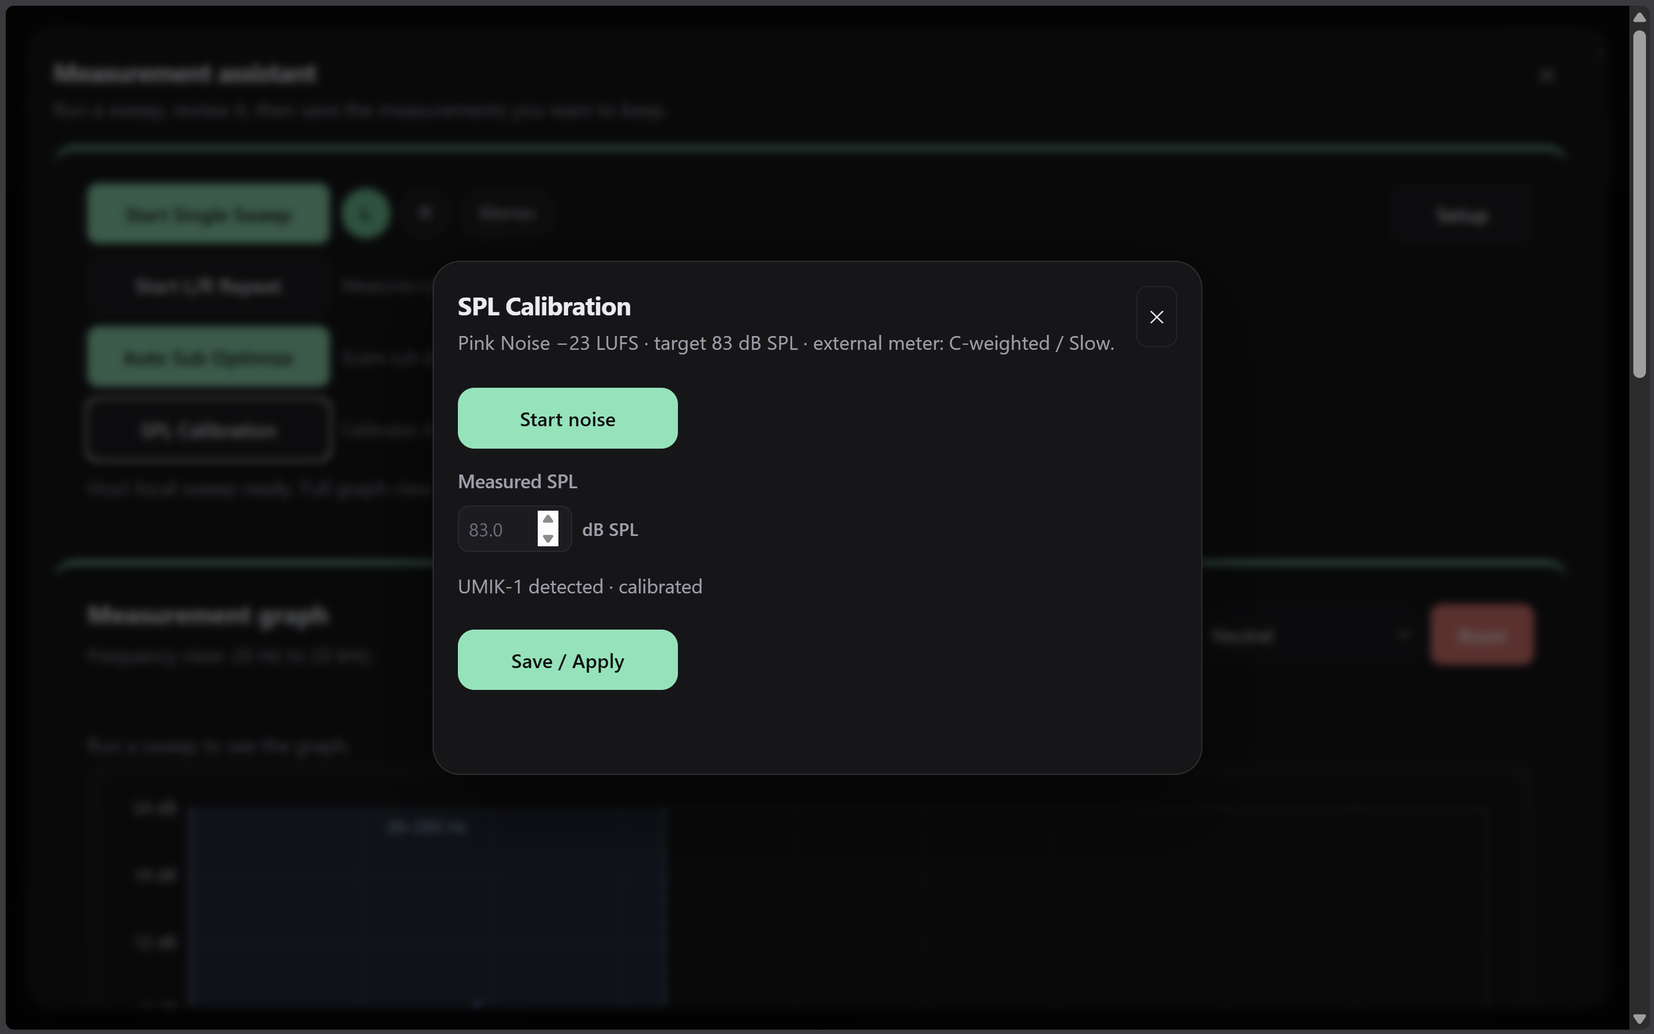
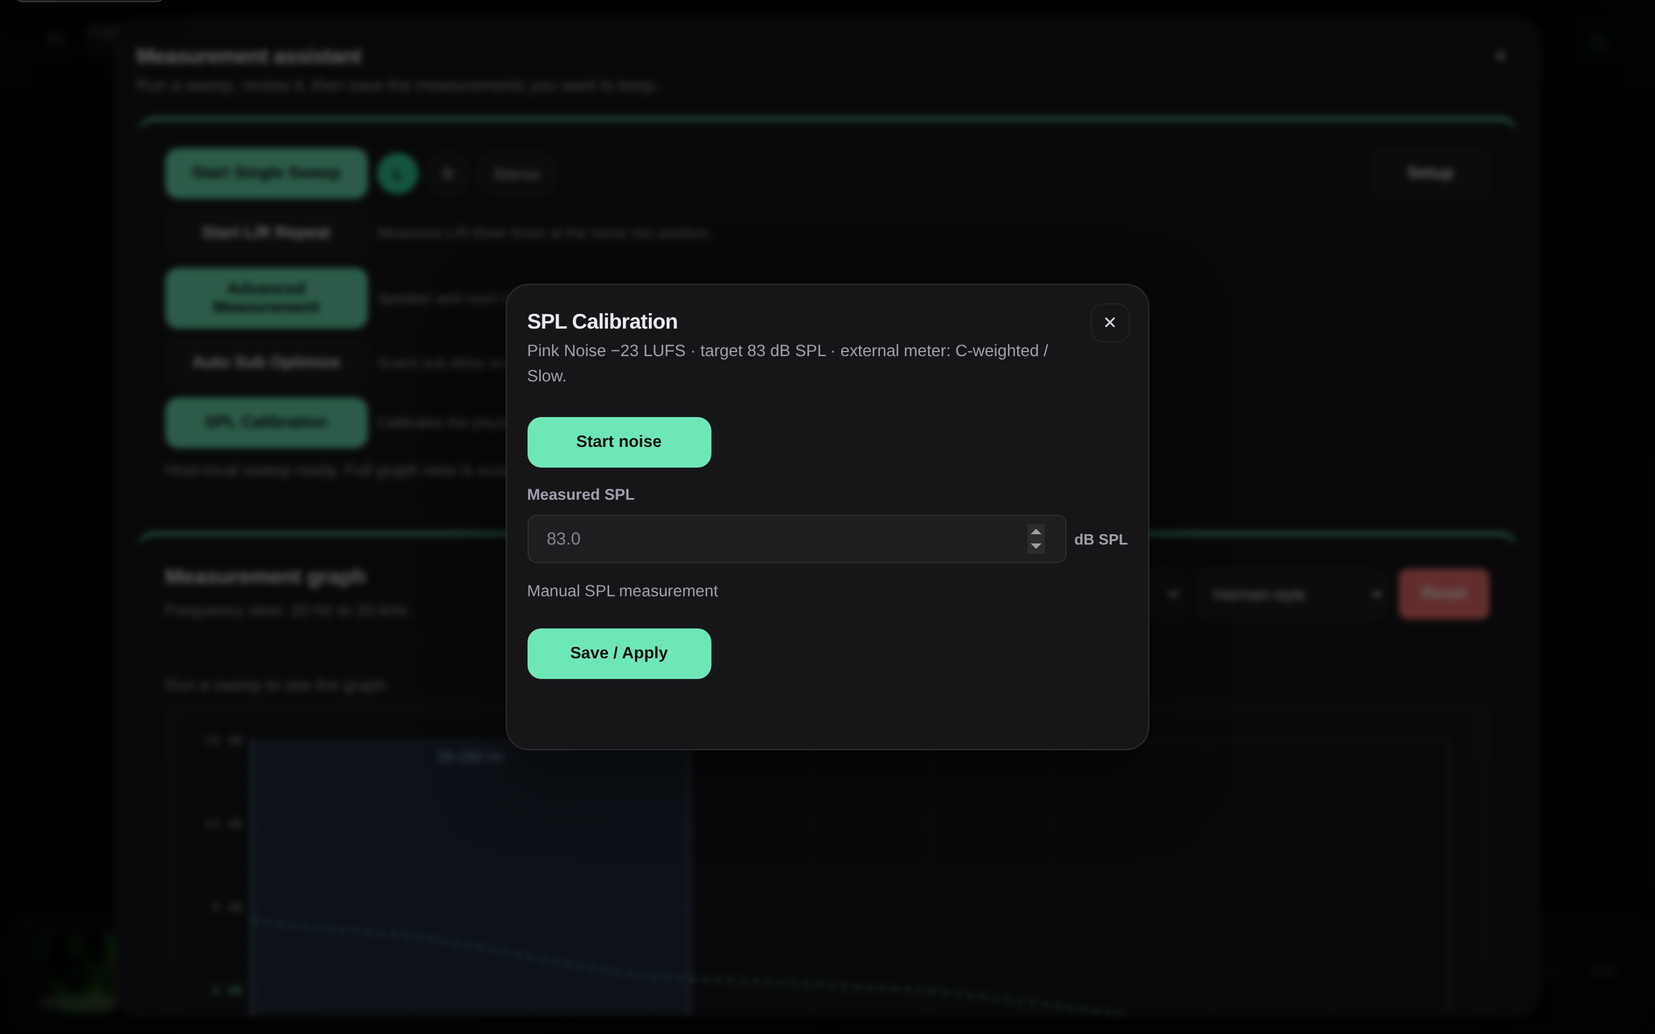
docs: refresh user manual and screenshots for the current product state
- Document Qobuz and TIDAL streaming providers, the spotifyd backend,
  library favorites, the amplifier hardware controller, system power,
  and installer-driven provider setup
- Correct the DSP helper semantics: Loudness is its own helper with
  Strength/FFT, Tone effect offers Crystalizer/Maximizer, and the built-in
  Direct preset bypasses all processing including global helpers
- Clarify volume concepts: FXRoute master vs. source/app volumes
- Refresh all README screenshots against the current UI; replace the
  Spotify cell with the TIDAL catalog browse view and drop stale images

Changed region(s): [[0.0, 0.0, 1.0, 1.0], [0.2782, 0.56, 0.4328, 0.6844], [0.6492, 0.4978, 0.6801, 0.5289]]

diff --git a/MANUAL.md b/MANUAL.md
@@ -8,8 +8,9 @@ Use a phone, tablet, or laptop on the local network to control playback, switch 
 
 FXRoute puts these tasks on one local hi-fi control system:
 
-- play internet radio, Spotify, and local music
+- play internet radio, Spotify, Qobuz, TIDAL, and local music
 - browse local albums with artwork, artist context, and discovery hints
+- browse the TIDAL catalog and control connected players from the same tab set
 - control volume, queue, play/pause, and track position from the browser
 - route audio through FXRoute's native engine for live DSP
 - switch room-correction, PEQ, convolver, and tone presets
@@ -19,7 +20,26 @@ FXRoute puts these tasks on one local hi-fi control system:
 
 FXRoute runs in a Linux user session with an active PipeWire audio stack. That can be a desktop session or a headless CLI/minimal system with enabled user services. FXRoute is not intended to run as a system daemon.
 
-## 2. Opening FXRoute
+## 2. First-time installation
+
+Run the installer on the audio PC:
+
+```bash
+chmod +x install.sh
+./install.sh
+```
+
+The installer prepares the system packages, builds the native DSP engine, creates the Python virtual environment, and enables the `fxroute.service` systemd user service. It also installs the runtime tools for playback and metadata (mpv, ffmpeg, playerctl, PipeWire/BlueZ helpers) and sets up `.local` LAN naming on supported distributions.
+
+Streaming providers are optional and selected independently. A non-interactive install selects none. Choose what you want to use, for example:
+
+```bash
+./install.sh --providers spotify-desktop,spotifyd,qobuz,tidal
+```
+
+Supported package managers are apt, dnf, zypper, and pacman. See [docs/INSTALLER.md](docs/INSTALLER.md) for the full provider matrix, first-run authentication for each provider, and uninstall behavior.
+
+## 3. Opening FXRoute
 
 Open FXRoute from a browser on the same network:
 
@@ -34,11 +54,11 @@ If the optional local HTTPS proxy is enabled, use:
 
 The top-left FXRoute logo opens **Technical settings**.
 
-## 3. Basic listening workflow
+## 4. Basic listening workflow
 
 A typical listening session:
 
-1. Start music from **Radio**, **Spotify**, or **Library**.
+1. Start music from **Radio**, **Spotify**, **Qobuz**, **TIDAL**, or **Library**.
 2. Use the bottom playback bar for play/pause, volume, seek, and queue control.
 3. Open **DSP** to choose or compare the sound profile.
 4. If you want to tune the room, open **Measure** from the DSP page.
@@ -46,7 +66,9 @@ A typical listening session:
 
 FXRoute's native engine handles live audio processing and FXRoute controls, organizes, compares, and edits its presets.
 
-## 4. Radio
+The volume slider in the playback bar is the FXRoute master volume, the main listening level. Source and app volumes (for example the Spotify client or the Qobuz app) are separate from it.
+
+## 5. Radio
 
 Use **Radio** for internet radio playback.
 
@@ -59,18 +81,24 @@ You can:
 - add your own stream URLs to the personal catalog
 - edit the name, URL, and artwork of personal stations
 - delete personal stations you no longer use
+- export the personal station list
 - see live stream info (codec, bitrate, sample rate) in the playback bar
 - open the cover detail card for the current station, with live metadata
   and artwork when the station provides them (Radio Paradise, FIP, SomaFM,
   and KEXP are enriched with dedicated providers)
 
+The radio page shows **My Stations** first and keeps the curated stations under **Station Catalog**, so the catalog stays available without cluttering your personal list.
+
 Radio is a quick way to check playback, output selection, and DSP routing.
 
-## 5. Spotify
+## 6. Spotify
 
-Use **Spotify** to control the Spotify desktop app in the same Linux user session as FXRoute.
+Use **Spotify** to control a Spotify player running in the same Linux user session as FXRoute. Two backends are supported:
 
-You can:
+- **Spotify Desktop** — the official desktop client, controlled through MPRIS. Requires an X11/Wayland desktop session.
+- **spotifyd** — a headless Spotify player that also works in a session without a desktop. It uses the PipeWire-Pulse backend and MPRIS.
+
+FXRoute detects the running backend and shows the player state in the Spotify tab. Both backends offer the same control surface:
 
 - play/pause
 - previous/next track
@@ -81,9 +109,9 @@ You can:
 
 FXRoute refreshes Spotify metadata from local desktop events and lightweight polling, so automatic next-track changes should update title, artist, cover, duration, and position without needing a manual browser action.
 
-FXRoute does not replace Spotify Connect. It controls the local Spotify client through the desktop session, so Spotify must be installed on and reachable from the audio PC.
+FXRoute does not replace Spotify Connect. It controls the local player through the session, so Spotify must be installed on, reachable from, and logged in on the audio PC. The spotifyd variant is configured with a fixed Zeroconf port so the phone can find the FXRoute player reliably.
 
-The regular Spotify desktop client also supports Spotify Lossless for eligible Premium accounts. Enable **Lossless** in a current Spotify desktop client (version 1.2.67 or newer) to stream available music at up to 24-bit/44.1 kHz FLAC while FXRoute continues to provide remote playback control. FXRoute controls the client; it does not provide the Spotify stream itself.
+The regular Spotify desktop client also supports Spotify Lossless for eligible Premium accounts. Enable **Lossless** in a current Spotify desktop client (version 1.2.67 or newer) to stream available music at up to 24-bit/44.1 kHz FLAC while FXRoute continues to provide remote playback control. FXRoute controls the client; it does not provide the Spotify stream itself. Lossless is not available through spotifyd.
 
 On fresh installs, Spotify autostart is enabled by default when a local Spotify desktop client is available. Installer reruns preserve an existing `.env`, so an already configured system keeps its current setting.
 Spotify may trigger a Linux keyring unlock prompt after login.
@@ -96,7 +124,39 @@ seahorse
 
 In Passwords and Keys, open Passwords → Login. Then change the password of the Login keyring and set a blank password by leaving the new password fields empty.
 
-## 6. Library and network shares
+Spotify volume is the provider's own volume. The playback-bar slider remains the FXRoute master volume.
+
+## 7. Qobuz
+
+The Qobuz tab controls a **Qobuz Connect** player on the audio PC. Playback starts from the Qobuz app: run `"$HOME/.local/bin/qbzd" setup` once after installation, enable Qobuz Connect, then select the FXRoute device from the Qobuz app. The FXRoute tab then shows what is playing and offers the same transport controls as the other sources:
+
+- play/pause
+- previous/next track
+- seek within a track
+- toggle shuffle and loop
+- see cover art and track metadata
+
+Stream quality follows your Qobuz account and the selected Qobuz app settings. The Qobuz client runs at unity gain; volume changes are handled through the FXRoute master slider, so you keep one volume control in the browser.
+
+## 8. TIDAL
+
+The TIDAL tab is a full catalog browser. After logging in you can browse, search, favorite, and play without leaving FXRoute.
+
+Log in from the TIDAL tab:
+
+- **Browser login** (PKCE) — copy the login link, sign in on any device, and paste the redirect URL back into FXRoute. This is the only login that unlocks Lossless and Hi-Res playback.
+- **Device login** — enter the shown code at link.tidal.com. Faster, but limited to AAC 320 kbps.
+
+The tab provides:
+
+- browse Tracks, Albums, Artists, and Playlists
+- search the catalog
+- favorite tracks, albums, artists, and playlists (favorites appear in the footer for the current track)
+- album, artist, and playlist pages with cover art and track lists
+
+TIDAL playback runs natively through FXRoute's audio engine, so the DSP chain, output mode, and sample-rate policy apply exactly as for local files. Playback control lives in the bottom playback bar, and the master volume slider applies to TIDAL playback.
+
+## 9. Library and network shares
 
 Use **Library** for local and imported music.
 
@@ -111,6 +171,7 @@ You can:
 - shuffle or loop the current queue
 - select multiple tracks
 - save selected tracks as a playlist
+- favorite albums and filter the album view to favorites
 - upload audio files or album ZIPs
 - import from a media URL when supported by the installed tools
 - download or delete selected tracks
@@ -129,11 +190,11 @@ smb://server/share
 
 FXRoute checks guest access when discovering shares, mounts the selected share when needed, and then scans it like the local library. The host needs `smbclient`, CIFS/GVFS support, and permission to mount the share. The installer provides the required packages and the CIFS mount helper on supported distributions. A share must expose one disk share; administrative and printer shares are ignored.
 
-## 7. Native DSP installation
+## 10. Native DSP installation
 
 The installer installs compiler, PipeWire development, and LV2 plugin dependencies (LSP, Zam, Calf) on supported distributions, then builds the DSP engine shipped with FXRoute. Audio applications connect through `fxroute_dsp_sink`; processing runs in the `fxroute_dsp` node.
 
-## 8. DSP
+## 11. DSP
 
 Use **DSP** to shape and correct the sound.
 
@@ -142,10 +203,9 @@ Main tools:
 - **A/B compare** — switch between two presets while listening.
 - **Combine** — build a new preset from up to three existing presets.
 - **Import filter** — import stereo or separate left/right filters.
-- **Create PEQ preset** — sketch up to 12 temporary filters, stage them for
-  Left, Right, or both channels, and create a left/right parametric EQ preset.
-- **Custom House Curve** — edit up to 8 frequency/gain points on the graph or
-  numerically, then create a reusable target curve.
+- **Create PEQ preset** — build paired left/right PEQ bands and create a
+  left/right parametric EQ preset. The EQ engine offers IIR, FIR, FFT, and
+  SPM modes; a PEQ preset can also carry a channel gain trim and a delay.
 - **Output extras** — configure the global helpers shared by all presets.
 
 Typical DSP files:
@@ -155,24 +215,33 @@ Typical DSP files:
 - WAV impulse responses
 - REW text filters for left/right PEQ-style correction
 
+FXRoute ships two built-in presets. **Direct** bypasses the whole processing
+chain, including the global helpers. **Neutral** is a clean preset without
+filters that still lets the global helpers apply. Both are always available
+and cannot be deleted. The active preset defaults to Neutral.
+
 Use A/B compare while music is playing. Switching between presets is usually more useful than comparing their numbers.
 
 ### Global helpers
 
-Global helpers affect the active DSP setup:
+The **Output extras** helpers apply on top of the active preset automatically, except for the Direct preset:
 
-- **Protection Limiter** protects the final output from peaks.
-- **Headroom** adds a controlled safety margin before the output stage.
-- **Auto Gain** adjusts programme level toward the selected loudness target.
-- **Loudness** applies a calibrated contour that follows the playback level. **Strength** controls its intensity; when Auto Gain is active, the contour also accounts for the selected Auto Gain target.
-- **Bass Enhancer** adds adjustable low-frequency enhancement.
-- **Tone Effect** provides broad tonal shaping and contains the Loudness control.
+- **Protection limiter** protects the final output from peaks.
+- **Headroom** adds a controlled safety margin before the output stage
+  (−2 dB to −6 dB).
+- **Autogain** adjusts programme level toward the selected loudness target
+  (−12, −15, −18, or −23 LUFS).
+- **Loudness** applies a calibrated contour that follows the playback level.
+  **Strength** controls its intensity; when Autogain is active, the contour
+  also accounts for the selected Autogain target. A **FFT** setting selects
+  the analysis window size.
+- **Bass enhancer** adds adjustable low-frequency enhancement.
+- **Tone effect** provides broad tonal shaping with **Crystalizer** or
+  **Maximizer** modes.
 
-Each helper can be enabled or adjusted from **Output extras**. Auto Gain and
-Loudness can be used independently or together, while the Protection Limiter
-remains the final stage.
+Each helper can be enabled or adjusted from **Output extras**. Autogain and Loudness can be used independently or together, while the Protection limiter remains the final stage.
 
-## 9. Measurement assistant
+## 12. Measurement assistant
 
 Open **Measure** from the DSP page.
 
@@ -236,14 +305,14 @@ Use the electrical reference input in **Setup** when available. It gives the tim
 
 ### SPL Calibration
 
-SPL Calibration plays calibrated **−23-LUFS pink noise** and calculates the
-level adjustment for the current output profile. With a configured UMIK-1,
-UMIK-2, or Dayton UMM-6, FXRoute can capture the microphone signal and
-determine SPL automatically.
+SPL Calibration plays calibrated **−23-LUFS pink noise** (83 dB SPL target)
+and calculates the level adjustment for the current output profile. With a
+configured UMIK-1, UMIK-2, or Dayton UMM-6, FXRoute can capture the microphone
+signal and determine SPL automatically.
 When automatic microphone measurement is unavailable, enter the reading from a
 C-weighted, Slow SPL meter manually.
 
-Only during SPL Calibration, Auto Gain and Loudness are temporarily neutral so
+Only during SPL Calibration, Autogain and Loudness are temporarily neutral so
 their previous target, Strength, and compensation do not alter the reference
 noise. Their exact prior states are restored when calibration stops, is saved,
 is cancelled, or fails. Normal sweeps and Auto Sub Optimize continue to
@@ -293,7 +362,7 @@ The optimizer does not measure the subwoofer's internal latency directly. It opt
 
 Where the active mode uses a fine scan, FXRoute checks additional candidates around the best coarse delay region. In 2.2 Mono, the matrix scan evaluates the combined dual-sub result. The selected values apply to the measured crossover, room, and microphone position; they are not universal latency figures.
 
-In **2.1** and **2.2 Mono**, candidates are evaluated against both left and right main channels so a weak result on one side affects the combined choice. In **2.2 Stereo**, the left and right sub/main branches are evaluated and optimized separately. The active polarity is protected unless another measured setting is clearly better. AutoGain then makes measured gain steps of up to ±6 dB against the selected target curve, verifies them with fresh sweeps, and restores gain changes that do not improve the result. Before and during those gain sweeps, FXRoute checks all four final Stage outputs and stops an unsafe candidate before it can exceed −1 dBFS. PEQ, target curves, and room-correction filters are not changed.
+In **2.1** and **2.2 Mono**, candidates are evaluated against both left and right main channels so a weak result on one side affects the combined choice. In **2.2 Stereo**, the left and right sub/main branches are evaluated and optimized separately. The active polarity is protected unless another measured setting is clearly better. Autogain then makes measured gain steps of up to ±6 dB against the selected target curve, verifies them with fresh sweeps, and restores gain changes that do not improve the result. Before and during those gain sweeps, FXRoute checks all four final Stage outputs and stops an unsafe candidate before it can exceed −1 dBFS. PEQ, target curves, and room-correction filters are not changed.
 
 **Recommended order with EQ or Convolver:**
 
@@ -341,7 +410,7 @@ The aligned modes require single saved L/R measurements with valid direct-arriva
 
 FXRoute blocks aligned filter creation when the measured signed L/R timing offset exceeds the safety limit in either direction. The timing summary is shown as one arrival relation, for example `L arrives 5.27 ms later than R`.
 
-## 10. Technical settings
+## 13. Technical settings
 
 Click the FXRoute logo to open **Technical settings**.
 
@@ -352,13 +421,18 @@ Useful settings:
 - follow the playback sample rate or use a fixed sample rate
 - check the current source mode
 - see Bluetooth input status when the host supports it
+- select the music library (local folder or network share)
+- control a connected amplifier hardware controller, when present
+- run maintenance updates and restore the public release
 - download the local HTTPS certificate when the optional HTTPS proxy is enabled
 
-Use this area to fix the output device, check the source mode or Bluetooth input, or download the local HTTPS certificate for a client device.
+The power menu in the header lets you **Suspend** or **Shut down** the audio PC when the host supports it through the systemd logind integration.
 
 ### Output modes
 
 Select **Stereo**, **2.1 Subwoofer**, or **2.2 Subwoofer** under **Output Mode**. The available subwoofer controls and measurement workflows depend on the selected mode. Set the crossover, levels, polarity, and alignment in the DSP output controls before running **Auto Sub Optimize**.
+
+The **Crossover / Subwoofer** card on the DSP page shows the routing (`Out 1/2 Main · Out 3/4 Sub` in 2.1 mode, `Out 1/2 Main · Out 3 Sub 1 · Out 4 Sub 2` in 2.2 mode), a crossover preview, the crossover frequency (40–200 Hz), the main highpass, and per-subwoofer level, alignment, and polarity. In 2.2 mode, Sub 1 and Sub 2 are configured separately.
 
 ### Fixed Sample Rate
 
@@ -370,20 +444,19 @@ The maximum processing sample rate is 384 kHz. Lower device-specific limits are 
 
 Use a fixed rate when the DAC, DSP chain, or external hardware needs one clock. Use Auto when sources with different native rates should play without forcing conversion to one rate.
 
-### Maintenance updates
+### Amplifier hardware controller
 
-Open **Technical settings → Maintenance** to view the installed version, check
-for updates, run an update, and inspect the update log. FXRoute blocks updates
-when the installation contains uncommitted changes and reports when a
-successful update requires a reload.
+When a supported USB amplifier controller is connected, **Technical settings** shows its status and the available controls: **RCA** and **XLR** input selection, **Press Input**, and **Auto On** / **Auto Off**. The controller is optional; without it the section simply shows that no controller was detected.
+
+### Maintenance
+
+Open **Technical settings → Maintenance** to view the installed version, check for updates, run an update, and inspect the update log. FXRoute blocks updates when the installation contains uncommitted changes and reports when a successful update requires a reload.
+
+If uncommitted changes are blocking the normal update path, **Restore to Public Release** saves them as a patch and resets the checkout to the clean public release. Use it only when you no longer need the local changes.
 
 ### Home Assistant / external automation
 
-FXRoute exposes `GET /api/power/state` as a read-only hint for amplifier power
-automation. `amp_should_be_on` is true while playback is active or the
-Measurement Assistant is open. Home Assistant or another automation system can
-use this value to control a smart plug; FXRoute does not control the plug
-directly and does not require MQTT.
+FXRoute exposes `GET /api/power/state` as a read-only hint for amplifier power automation. `amp_should_be_on` is true while playback is active or the Measurement Assistant is open. Home Assistant or another automation system can use this value to control a smart plug; FXRoute does not control the plug directly and does not require MQTT.
 
 Minimal Home Assistant example:
 
@@ -396,13 +469,13 @@ rest:
         value_template: "{{ value_json.amp_should_be_on }}"
 ```
 
-## 11. Local HTTPS certificate
+## 14. Local HTTPS certificate
 
 When the optional local HTTPS proxy is enabled, FXRoute creates a local certificate authority for the audio PC.
 
 Install the downloaded certificate only on devices you trust on your own LAN. Import it into the operating system or browser trust store as a trusted certificate authority. If the FXRoute Caddy certificate authority is regenerated, client devices may need the new certificate again.
 
-## 12. Good first checks
+## 15. Good first checks
 
 If playback fails:
 
@@ -427,7 +500,7 @@ wpctl status
 pw-cli ls Node | grep fxroute_dsp
 ```
 
-## 13. What FXRoute expects
+## 16. What FXRoute expects
 
 FXRoute is designed for:
 
@@ -436,5 +509,6 @@ FXRoute is designed for:
 - the FXRoute native DSP engine in the same PipeWire user session
 - local network browser control
 - a DAC, amp, active speakers, headphones, or similar listening setup
+- optionally a local Spotify client, spotifyd, or qbzd for provider playback
 
 FXRoute depends on an active audio user session with PipeWire. Headless CLI/minimal setups are supported when the user services stay enabled; running without a user session is not supported.

diff --git a/README.md b/README.md
@@ -30,12 +30,12 @@ It runs on mini PCs, desktops, ARM boards, and dedicated stereo systems. It comb
     <td align="center"><strong>Convolver / Measurement</strong></td>
   </tr>
   <tr>
-    <td width="33%"><img src="media/screenshots/07-spotify.png" alt="FXRoute Spotify control view"></td>
+    <td width="33%"><img src="media/screenshots/07-tidal.png" alt="FXRoute TIDAL catalog browse view"></td>
     <td width="33%"><img src="media/screenshots/08-spl-calibration.png" alt="FXRoute SPL calibration view"></td>
     <td width="33%"><img src="media/screenshots/09-advanced-measurement.png" alt="FXRoute Advanced Measurement workflow"></td>
   </tr>
   <tr>
-    <td align="center"><strong>Spotify</strong></td>
+    <td align="center"><strong>TIDAL</strong></td>
     <td align="center"><strong>SPL Calibration</strong></td>
     <td align="center"><strong>Advanced Measurement</strong></td>
   </tr>
@@ -192,7 +192,9 @@ Typical URLs:
 - **Library** — local files, album browsing, cached metadata, artist info, similar-artist discovery, playlists, uploads, imports, downloads, and deletion
 - **DSP** — native DSP presets, PEQ, convolver, helpers, A/B compare, and preset creation
 - **Measure** — host-mic measurement, Advanced Measurement, subwoofer optimization, and tuning workflow
-- **Spotify** — control a local Spotify desktop client
+- **Spotify** — control a local Spotify desktop client or spotifyd player
+- **Qobuz** — control a Qobuz Connect player on the audio PC
+- **TIDAL** — full catalog browser with login, search, favorites, and native playback
 - **Technical settings** — output selection, Stereo/2.1/2.2 modes, Auto or fixed sample rate, music libraries, source state, Bluetooth status, Maintenance updates, and local certificate access
 
 ## Library metadata
